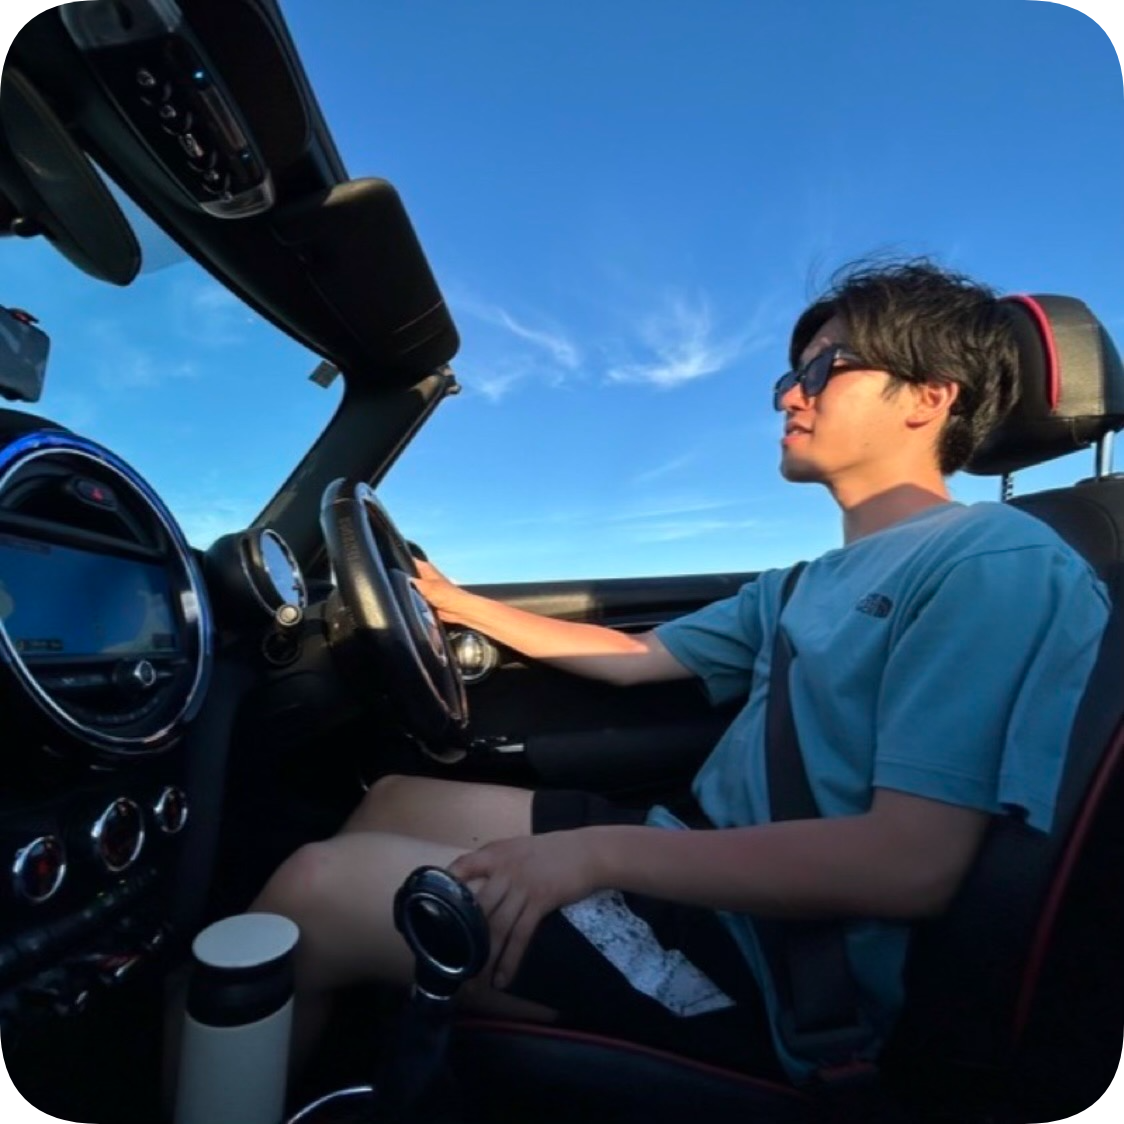
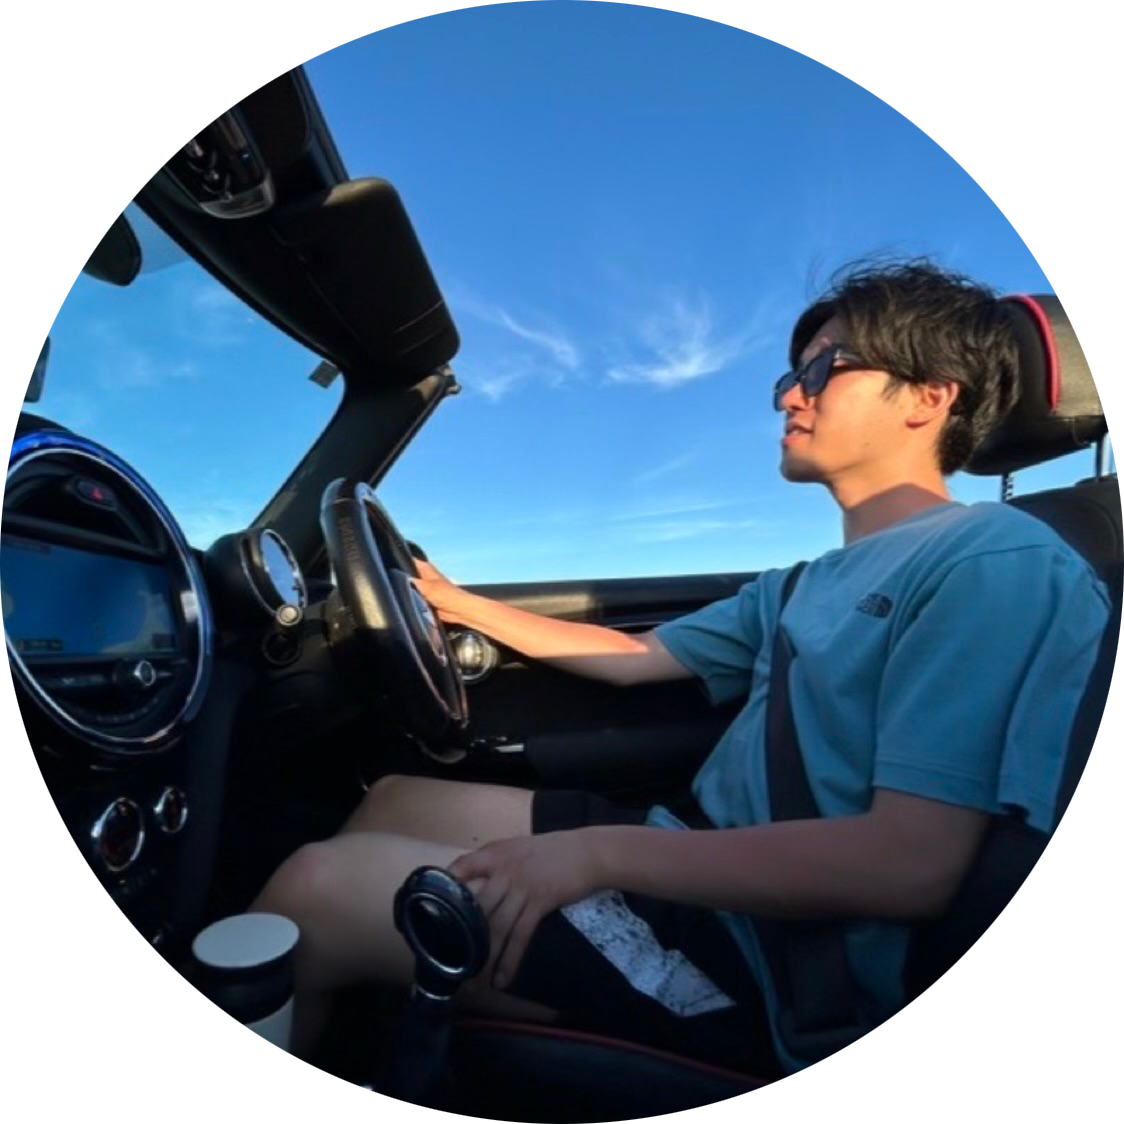
アイコンを丸く、背景を黒に、フォントをヒラギノに

Changed region(s): [[0.0, 0.0, 1.0, 1.0], [0.0, 0.0, 0.4359, 0.4359]]

diff --git a/index.html b/index.html
@@ -6,6 +6,13 @@
     <title>高橋圭哉のホームページ</title>
     <!-- titleがウィンドウのタブに表示される -->
     <link rel="icon" type="image/png" href="icon.png">
+    <style>
+        body {
+            background-color: black;
+            color: white;
+            font-family: "Hiragino Kaku Gothic ProN", "Hiragino Sans", sans-serif;
+        }
+    </style>
 </head>
 <body>
 
@@ -22,16 +29,16 @@
     <ul>
         <li>
             <strong>料理</strong>
-            <p><a href="cooking.html" target="_blank">料理の詳細ページはこちら</a></p>  
+            <p>自炊の料理を公開中<br><a href="cooking.html" target="_blank">料理の詳細ページはこちら</a></p>  
         </li>      
         <li>
             <strong>木工のDIY</strong>
-            <p><a href="hobby.html" target="_blank">過去の作品はこちら</a></p>
+            <p>過去の作品を公開中<br><a href="hobby.html" target="_blank">DIYの詳細ページはこちら</a></p>
         </li>
         <li>
             <strong>プログラミング</strong>
-            <p>使用言語は、Swift、Python少し、htmlなどです。<br>
-            iOSアプリの開発経験があり、「メロポチ」を現在AppStoreで公開しています。いとこのために作ったアプリですが、Apple公式のUIであるSwiftUIをふんだんに用いたので、操作性は抜群です。Liquid Glassにももちろん対応しています。今後のアップデートは未定。
+            <p>使用言語：Swift、Python少し、htmlなど<br>
+            「メロポチ」：AppStoreで公開中
             </p>
             
         </li>
@@ -41,7 +48,7 @@
         </li>
         <li>
             <strong>ドライブ</strong>
-            <p>MTの車およびバイク。車に関しては、スポーツカーではなく、MINIやクラッシックカー。現在大型二輪免許取得へと格闘中。バイクもアメリカンなクラッシックなアナログなものが好み。エンジン音とかは興味なし。煙の出ない葉巻を加えながら、優雅に海沿いを走るのが夢。</p>
+            <p>MTの車およびバイク。車に関しては、スポーツカーではなく、MINIやクラッシックカー。現在大型二輪免許取得へと格闘中。バイクもアメリカンなクラッシックなアナログなものが好み。煙の出ない葉巻を加えながら、優雅に海沿いを走るのが夢。</p>
             
         </li>
         
